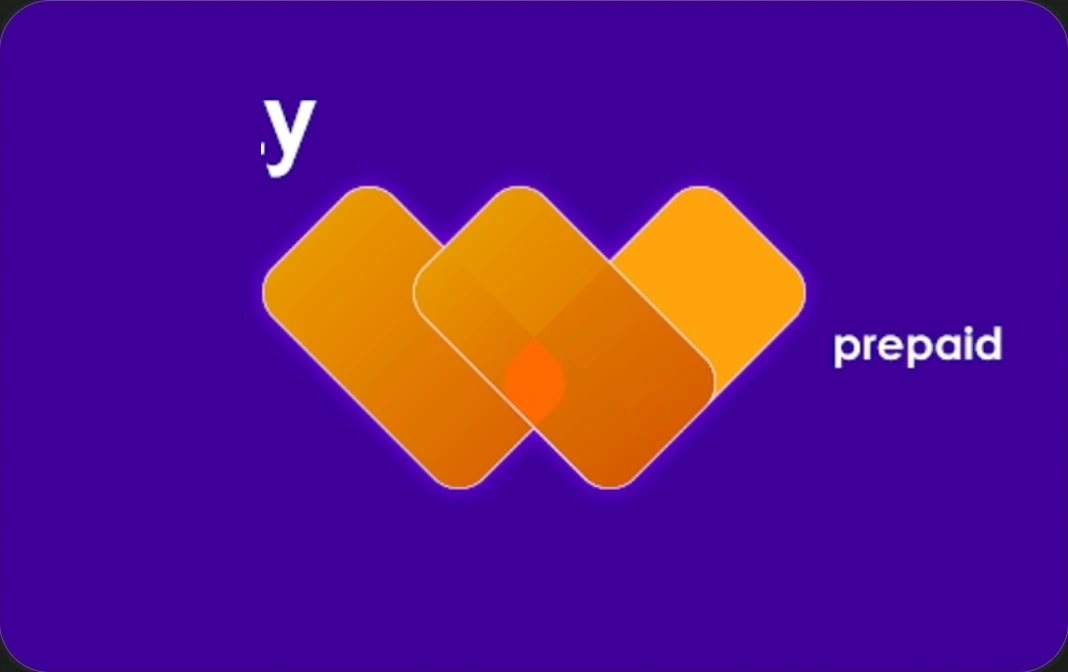
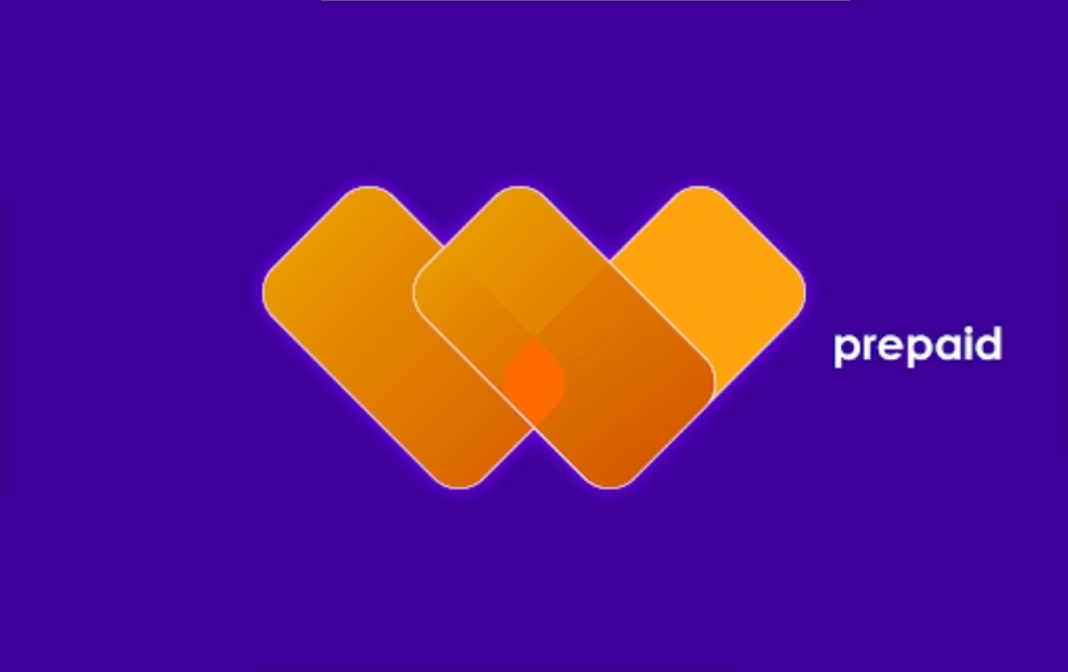
fix(wallet): agrandar mastercard/visa y eliminar texto superpuesto en wally v123

diff --git a/sw.js b/sw.js
@@ -1,4 +1,4 @@
-const CACHE_NAME = "cambi-v122";
+const CACHE_NAME = "cambi-v123";
 
 // Recursos esenciales que se guardan durante la instalación para arranque 100% offline
 const PRECACHE_URLS = [

diff --git a/scripts.php b/scripts.php
@@ -1379,7 +1379,7 @@
             }
             const backupData = {
                 appName: "Cambi",
-                version: "v122",
+                version: "v123",
                 exportedAt: new Date().toISOString(),
                 pmProfile: profile,
                 walletCards: walletCards,
@@ -2939,16 +2939,16 @@
     const getGoogleWalletNetworkSvg = (network, variant = "light") => {
         if (network === "mastercard") {
             return `<div class="gw-network-box gw-network-mastercard" title="Mastercard">
-                <svg width="36" height="22" viewBox="0 0 36 22" fill="none">
-                    <circle cx="11" cy="11" r="11" fill="#EB001B"/>
-                    <circle cx="25" cy="11" r="11" fill="#F79E1B"/>
-                    <path d="M 18 2.52 A 11 11 0 0 1 18 19.48 A 11 11 0 0 1 18 2.52 Z" fill="#FF5F00"/>
+                <svg width="58" height="36" viewBox="0 0 58 36" fill="none">
+                    <circle cx="18" cy="18" r="17" fill="#EB001B"/>
+                    <circle cx="40" cy="18" r="17" fill="#F79E1B"/>
+                    <path d="M 29 5.04 A 17 17 0 0 1 29 30.96 A 17 17 0 0 1 29 5.04 Z" fill="#FF5F00"/>
                 </svg>
             </div>`;
         }
         const visaColor = (variant === "dark") ? "#0B1528" : "#FFFFFF";
         return `<div class="gw-network-box gw-network-visa" title="Visa" style="color: ${visaColor};">
-            <svg width="40" height="13" viewBox="0 0 54 18" fill="none">
+            <svg width="56" height="19" viewBox="0 0 54 18" fill="none">
                 <path d="M21.2 1.3L15.3 16.7H10.4L6.3 4.2C6.1 3.3 5.9 3 5.1 2.5C3.9 1.8 1.8 1.2 0 0.8L0.1 0.4H8.3C9.4 0.4 10.3 1.2 10.5 2.4L12.5 12.8L17.5 0.4H21.2V1.3ZM39.6 11.5C39.6 7.1 33.4 6.9 33.5 4.9C33.5 4.3 34.1 3.7 35.3 3.5C35.9 3.4 37.6 3.4 39.7 4.3L40.5 0.7C39.4 0.3 38 0 36.2 0C31.8 0 28.7 2.4 28.7 5.7C28.6 8.2 30.9 9.6 32.6 10.5C34.4 11.3 35 11.9 35 12.7C35 13.9 33.6 14.4 32.2 14.4C30 14.4 28.7 14.1 27.2 13.4L26.3 17.2C27.6 17.8 29.8 18.2 32.1 18.2C36.8 18.2 39.6 15.9 39.6 11.5ZM51.8 16.7H56L52.4 0.4H48.5C47.6 0.4 46.8 0.9 46.5 1.7L39.7 16.7H44.6L45.6 14H51.4L51.8 16.7ZM47 10.4L49.3 4.1L50.6 10.4H47ZM27.3 0.4L23.4 16.7H18.8L22.7 0.4H27.3Z" fill="currentColor"/>
             </svg>
         </div>`;
@@ -2963,7 +2963,7 @@
         }
         const color = (variant === "dark") ? "#0B1528" : "#FFFFFF";
         return `<div class="gw-contactless-box" title="Contactless / Wireless" style="color: ${color};">
-            <svg class="gw-contactless-icon" viewBox="0 0 24 24" fill="none" stroke="currentColor" stroke-width="2.5" stroke-linecap="round" width="22" height="22">
+            <svg class="gw-contactless-icon" viewBox="0 0 24 24" fill="none" stroke="currentColor" stroke-width="2.8" stroke-linecap="round" width="26" height="26">
                 <path d="M9.5 6.5a7 7 0 0 1 0 11"/>
                 <path d="M13.5 3.5a11.5 11.5 0 0 1 0 17"/>
                 <path d="M17.5 0.5a16 16 0 0 1 0 23"/>
@@ -2986,10 +2986,10 @@
                 <div class="wallet-card-art gw-card-binance" ${previewIdAttr}>
                     <div class="gw-card-top-row">
                         <div class="gw-brand-box">
-                            <svg class="gw-brand-logo" viewBox="0 0 24 24" fill="#F0B90B" width="22" height="22">
+                            <svg class="gw-brand-logo" viewBox="0 0 24 24" fill="#F0B90B" width="24" height="24">
                                 <path d="M12 2L8.5 5.5l3.5 3.5 3.5-3.5L12 2zm-6.5 6.5L2 12l3.5 3.5 3.5-3.5-3.5-3.5zm13 0l-3.5 3.5 3.5 3.5 3.5-3.5-3.5-3.5zM12 8.9L9.4 11.5l2.6 2.6 2.6-2.6L12 8.9zM12 15l-3.5 3.5L12 22l3.5-3.5L12 15z"/>
                             </svg>
-                            <span class="gw-brand-text" style="color: #F0B90B; letter-spacing: 1.2px;">BINANCE</span>
+                            <span class="gw-brand-text binance-brand">BINANCE</span>
                         </div>
                         ${getGoogleWalletContactlessSvg(hasWireless, "light")}
                     </div>
@@ -3007,7 +3007,7 @@
                     <img src="public/banks/wally_card_bg.webp" alt="Wally Card" class="gw-wally-bg-img">
                     <div class="gw-card-top-row">
                         <div class="gw-brand-box">
-                            <span class="gw-brand-text" style="color: #FFFFFF; font-size: 1.35rem; font-weight: 800; letter-spacing: -0.5px;">wally</span>
+                            <span class="gw-brand-text wally-brand" style="color: #FFFFFF;">wally</span>
                         </div>
                         ${getGoogleWalletContactlessSvg(hasWireless, "light")}
                     </div>

diff --git a/head.php b/head.php
@@ -4782,7 +4782,7 @@
 
     /* Plantilla Canónica Google Wallet (4 cuadrantes universales) */
     .gw-card-top-row {
-        height: 28px;
+        height: 34px;
         display: flex;
         justify-content: space-between;
         align-items: center;
@@ -4791,10 +4791,10 @@
     }
 
     .gw-card-bottom-row {
-        height: 26px;
+        height: 38px;
         display: flex;
         justify-content: space-between;
-        align-items: flex-end;
+        align-items: center;
         z-index: 3;
         position: relative;
     }
@@ -4803,26 +4803,37 @@
     .gw-brand-box {
         display: flex;
         align-items: center;
-        gap: 8px;
-        height: 26px;
+        gap: 10px;
+        height: 32px;
     }
     .gw-brand-logo {
-        height: 22px;
-        max-width: 90px;
+        height: 26px;
+        max-width: 100px;
         object-fit: contain;
     }
     .gw-brand-text {
         font-family: var(--font-google-sans), -apple-system, sans-serif;
         font-weight: 800;
-        font-size: 1.05rem;
+        font-size: 1.25rem;
         letter-spacing: 0.5px;
         line-height: 1;
+    }
+    .gw-brand-text.wally-brand {
+        font-size: 1.6rem;
+        font-weight: 800;
+        letter-spacing: -0.6px;
+    }
+    .gw-brand-text.binance-brand {
+        font-size: 1.15rem;
+        font-weight: 800;
+        letter-spacing: 1.4px;
+        color: #F0B90B;
     }
 
     /* Cuadrante 2: Wireless / Contactless (Top-Right) */
     .gw-contactless-box {
-        width: 26px;
-        height: 26px;
+        width: 32px;
+        height: 32px;
         display: flex;
         align-items: center;
         justify-content: flex-end;
@@ -4831,18 +4842,18 @@
         display: none;
     }
     .gw-contactless-icon {
-        width: 22px;
-        height: 22px;
-        opacity: 0.92;
+        width: 26px;
+        height: 26px;
+        opacity: 0.95;
         color: #ffffff;
     }
 
     /* Cuadrante 3: Dígitos de tarjeta (Bottom-Left) */
     .gw-card-digits {
         font-family: var(--font-google-sans), -apple-system, sans-serif;
-        font-size: 1.15rem;
-        font-weight: 500;
-        letter-spacing: 1.2px;
+        font-size: 1.25rem;
+        font-weight: 600;
+        letter-spacing: 1.5px;
         color: #ffffff;
         text-shadow: 0 1px 3px rgba(0,0,0,0.35);
         display: flex;
@@ -4852,21 +4863,24 @@
 
     /* Cuadrante 4: Franquicia / Red (Bottom-Right) */
     .gw-network-box {
-        width: 38px;
-        height: 24px;
+        width: 62px;
+        height: 38px;
         display: inline-flex;
         align-items: center;
-        justify-content: center;
+        justify-content: flex-end;
         flex-shrink: 0;
     }
     .gw-network-mastercard {
-        filter: drop-shadow(0 1px 2px rgba(0,0,0,0.3));
+        display: inline-flex;
+        align-items: center;
+        filter: drop-shadow(0 1px 3px rgba(0,0,0,0.35));
     }
     .gw-network-visa {
+        display: inline-flex;
+        align-items: center;
         color: #ffffff;
-        filter: drop-shadow(0 1px 2px rgba(0,0,0,0.3));
+        filter: drop-shadow(0 1px 3px rgba(0,0,0,0.35));
     }
-
     /* 1. BINANCE CARD */
     .gw-card-binance {
         background: #000000 !important;

diff --git a/header.php b/header.php
@@ -153,7 +153,7 @@
                     <div class="settings-row">
                         <div class="settings-row-text">
                             <span class="settings-title">Versión de Cambi</span>
-                            <span class="settings-subtitle" id="settings-version-label">v122</span>
+                            <span class="settings-subtitle" id="settings-version-label">v123</span>
                         </div>
                         <button type="button" class="settings-btn-action" id="btn-check-update" style="padding: 8px 14px;">
                             <span class="material-symbols-rounded">refresh</span> Actualizar
